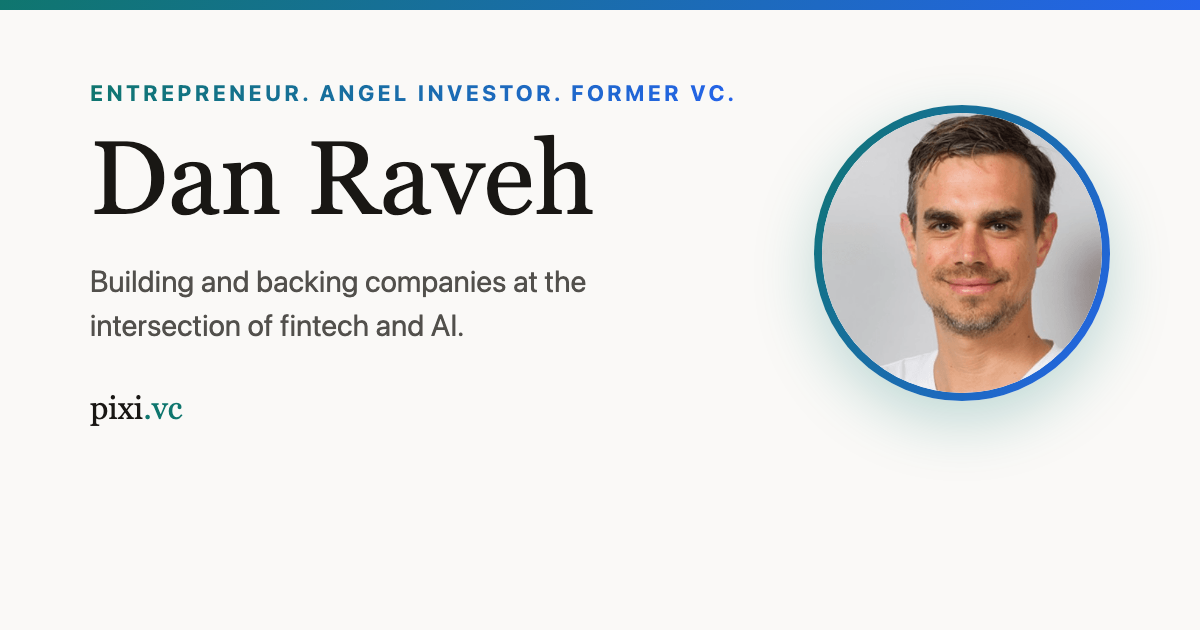
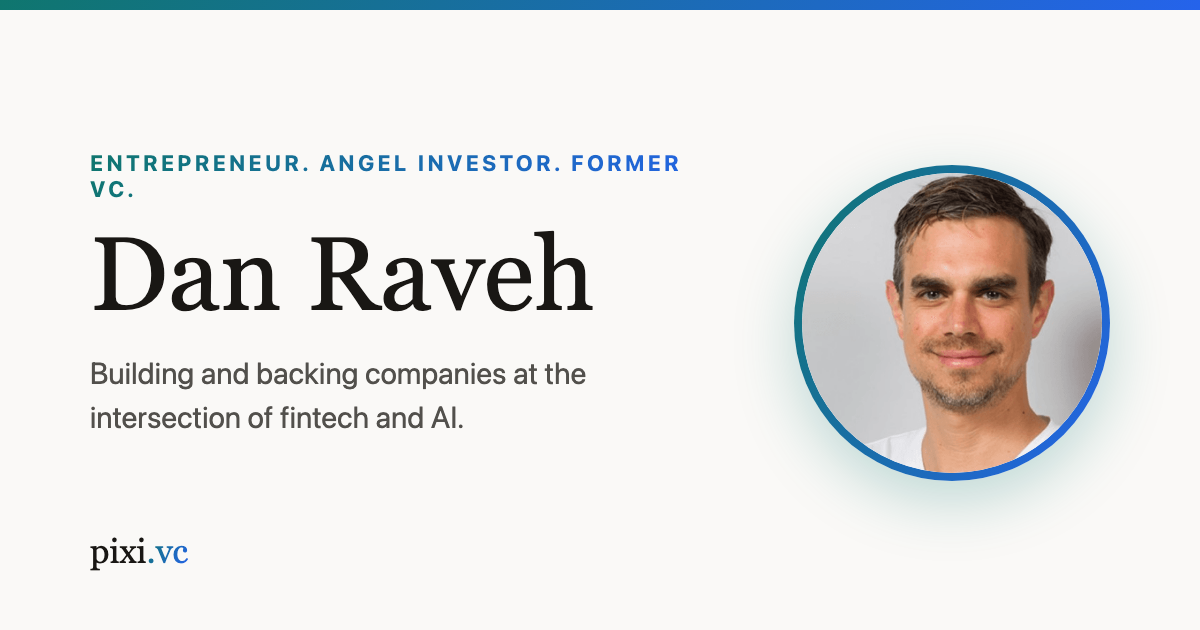
Redesign: photo hero, Now section, OG image, bolder gradient accents

diff --git a/index.html b/index.html
@@ -42,6 +42,7 @@
     "https://www.linkedin.com/in/danraveh/",
     "https://www.crunchbase.com/person/dan-raveh",
     "https://signal.nfx.com/investors/dan-raveh",
+    "https://github.com/danraveh-ai",
     "https://danraveh.com/"
   ]
 }
@@ -297,7 +298,6 @@
       <div class="contact-links">
         <a class="btn btn-primary" href="mailto:danraveh@gmail.com">Email</a>
         <a class="btn btn-ghost" href="https://www.linkedin.com/in/danraveh/" rel="me">LinkedIn</a>
-        <a class="btn btn-ghost" href="https://www.crunchbase.com/person/dan-raveh" rel="me">Crunchbase</a>
       </div>
     </section>
   </main>
